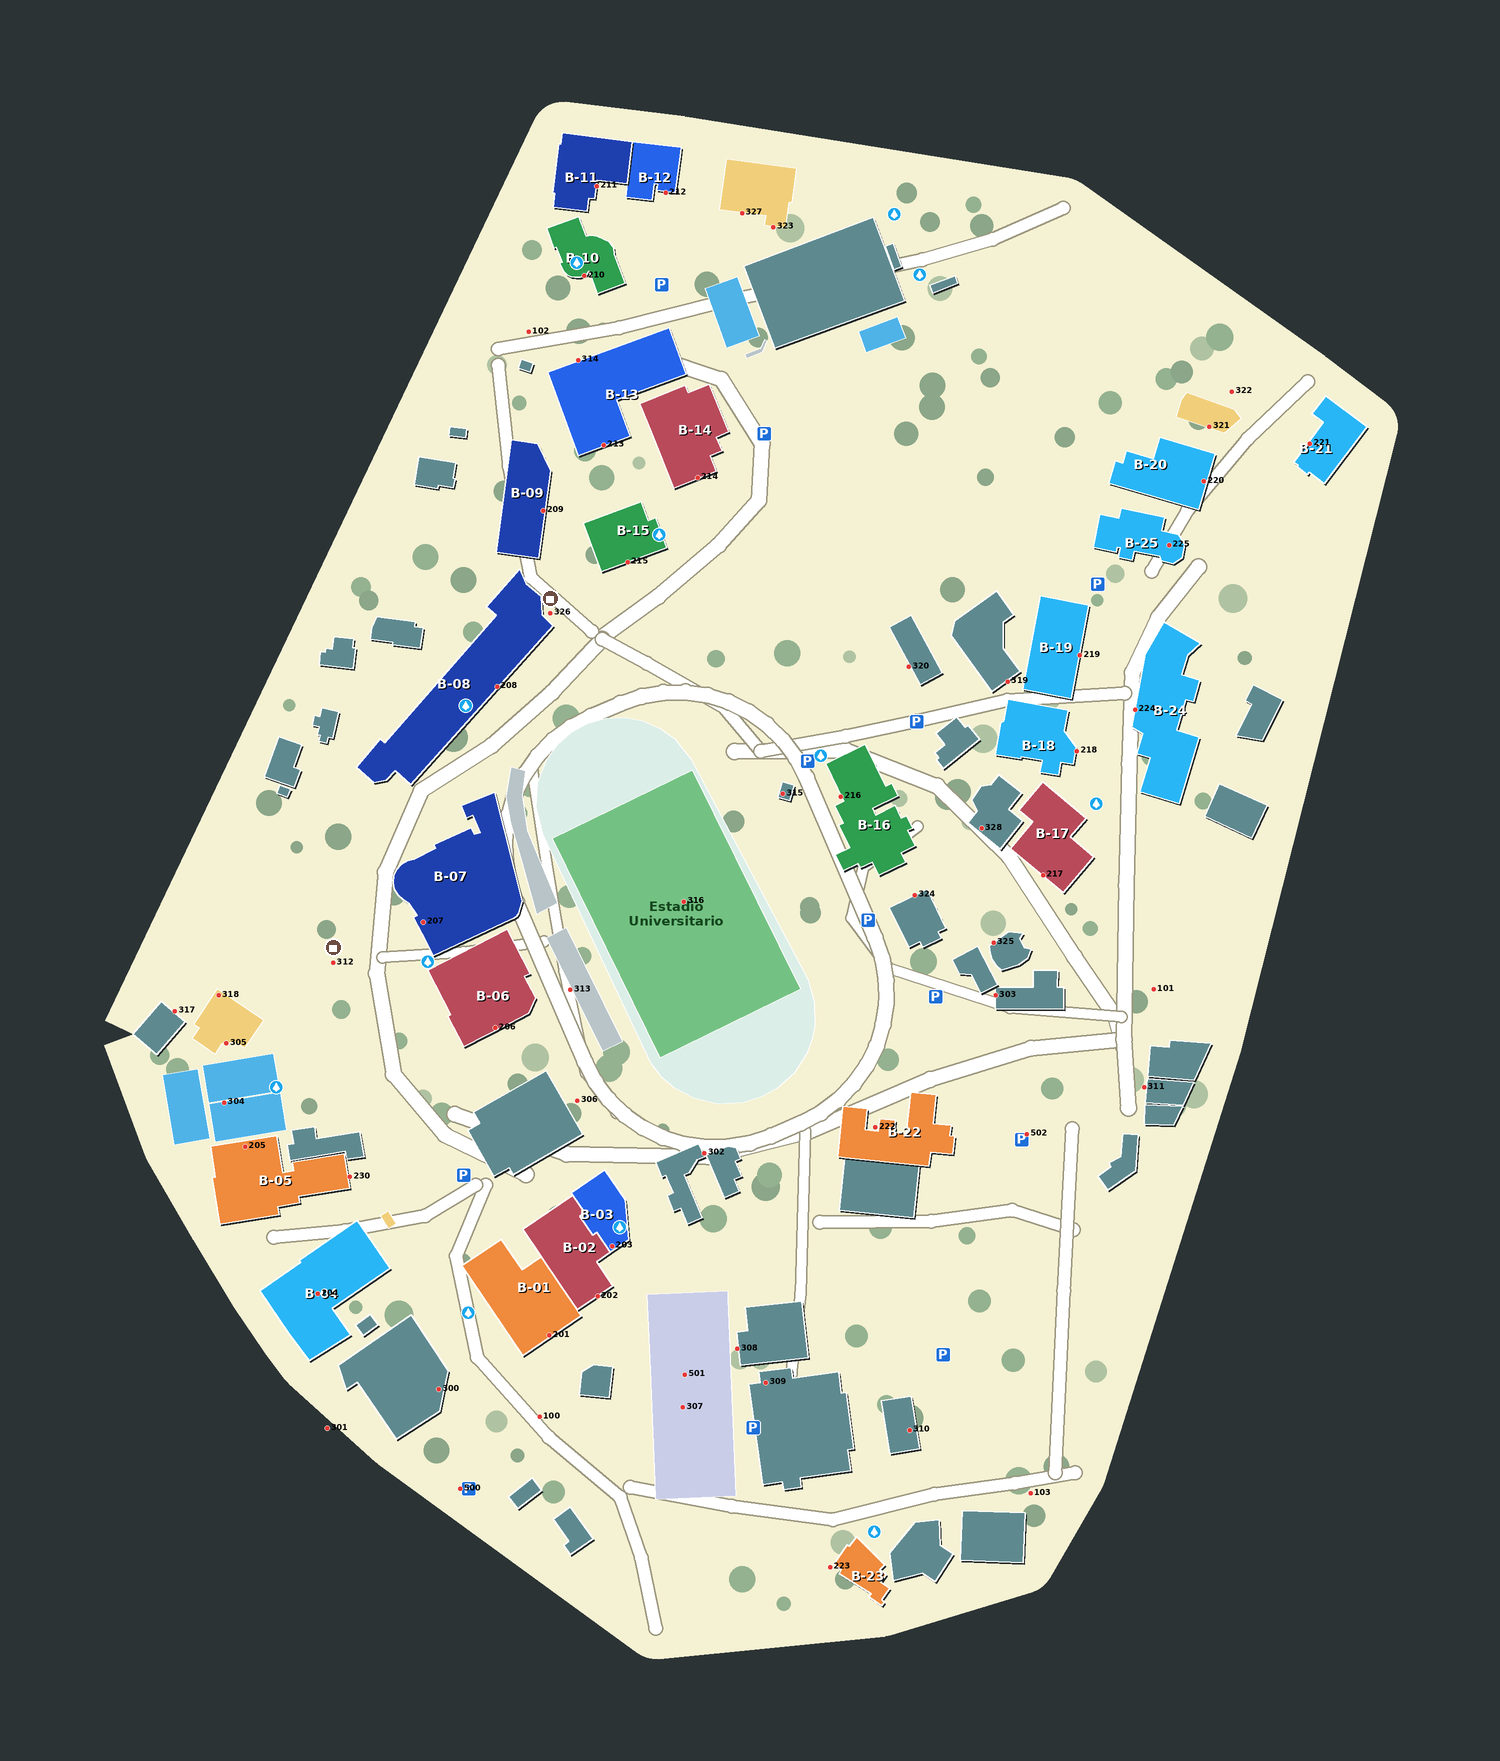
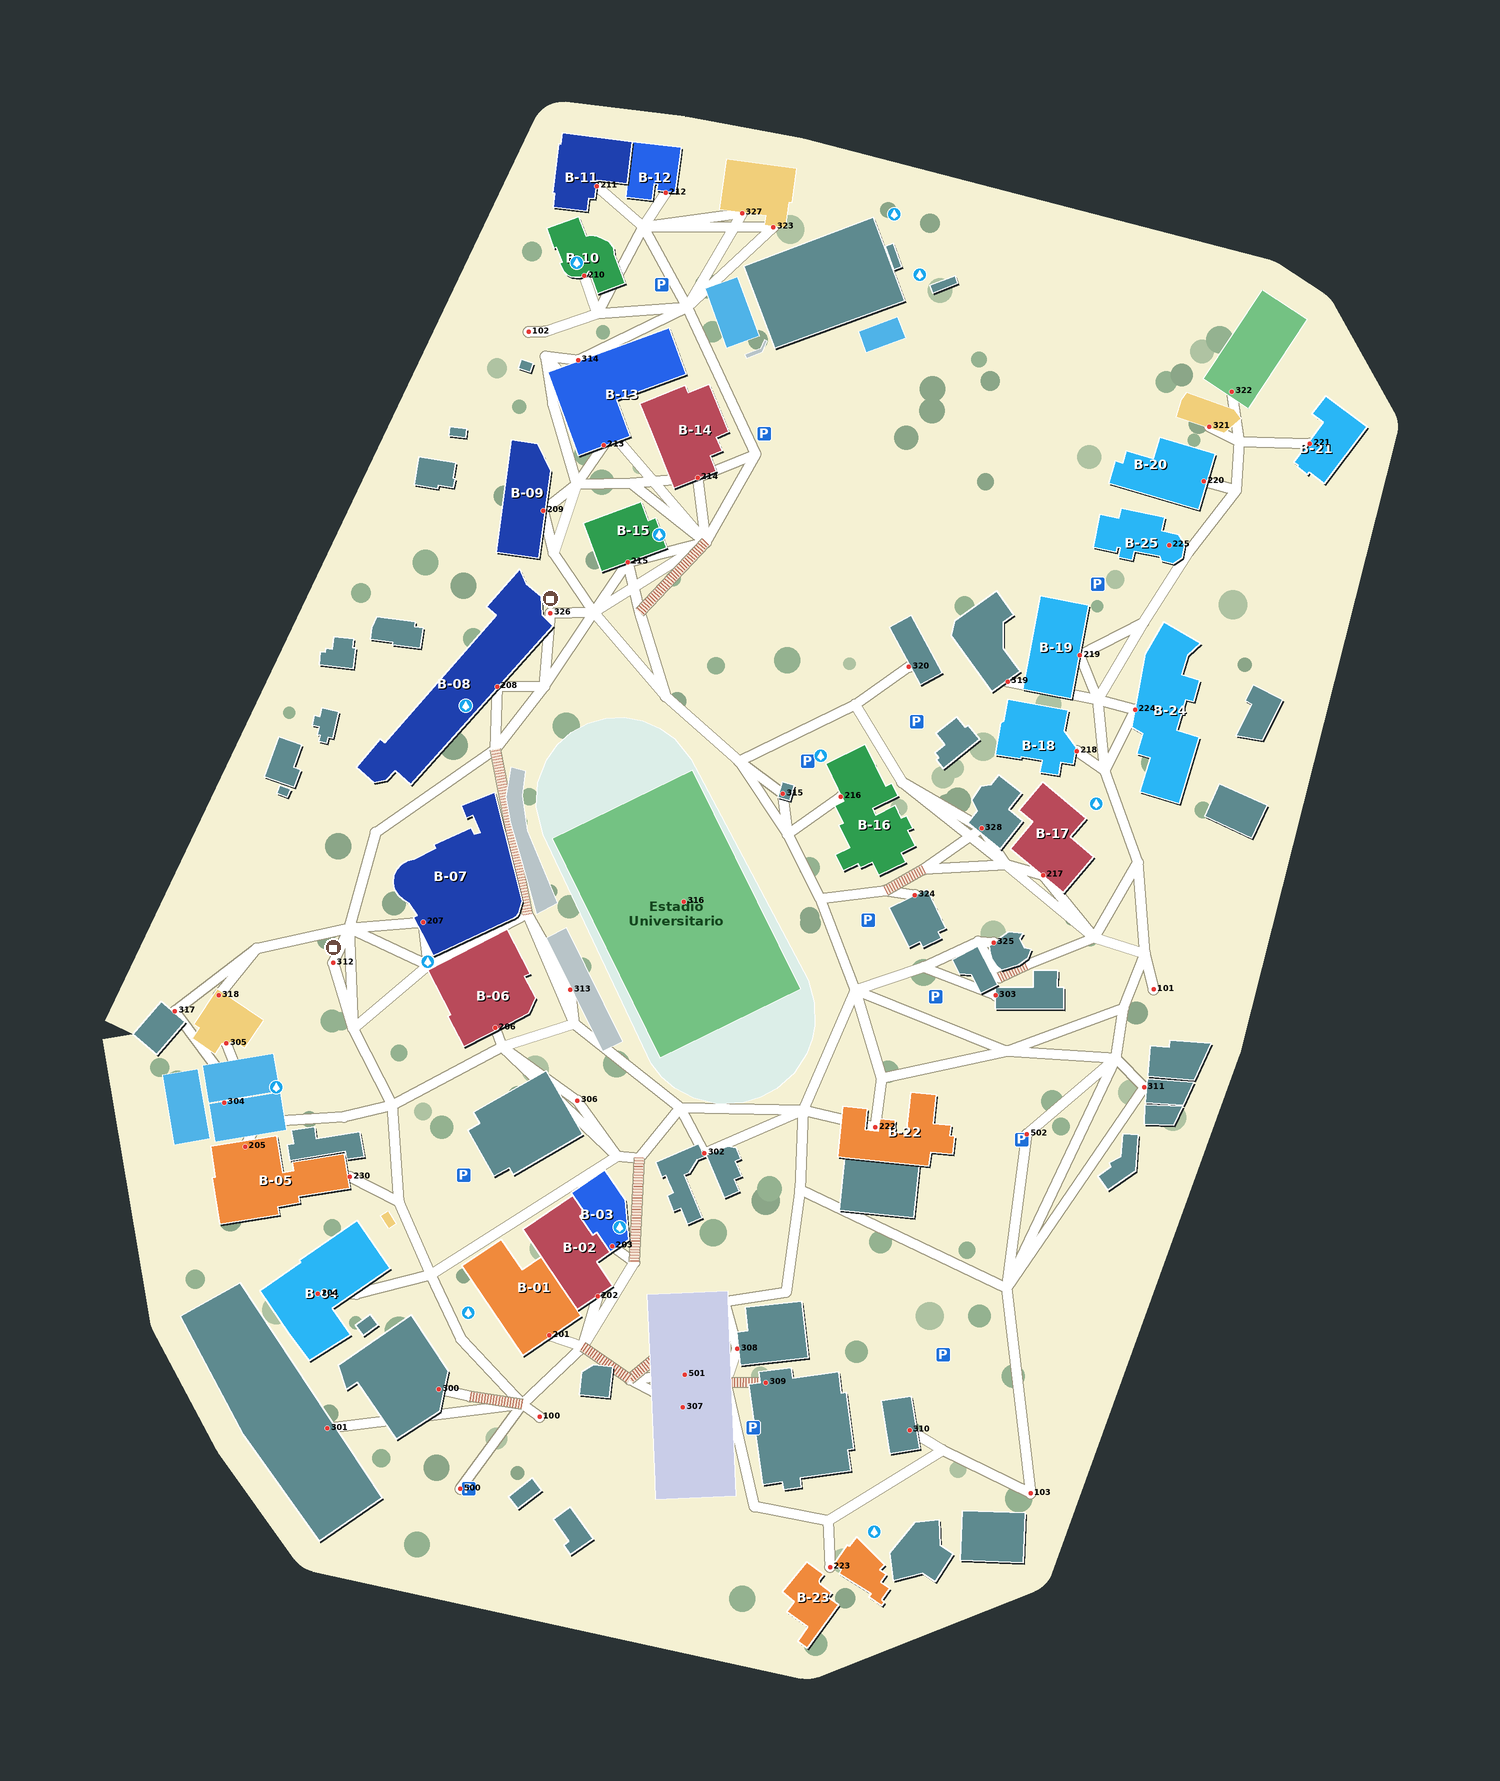
feat(mapa): caminos dibujados sobre las aristas (trazadas en OSM) con estilo de vereda y escaleras con peldaños

diff --git a/app/src/main/java/ec/edu/uleam/navigator/ui/map/CampusMap.kt b/app/src/main/java/ec/edu/uleam/navigator/ui/map/CampusMap.kt
@@ -320,8 +320,27 @@ fun CampusMap(
             // 0. TERRENO Y VEGETACIÓN DEL CAMPUS (diseño del mapa físico)
             drawCampusGround(p, ground, zoom)
 
-            // 1. DIBUJAR RED PEATONAL Y ARISTAS (con el diseño del mapa, las vías van en la capa de figuras
-            //    y las aristas del grafo no se pintan: solo se ve la ruta activa)
+            // 1. RED PEATONAL. Con el diseño del mapa, los caminos se dibujan siguiendo las aristas (trazadas sobre
+            //    OpenStreetMap) con estilo de vereda, y las escaleras con peldaños; sin diseño, líneas simples.
+            if (hasShapes && shapes.none { it.tipo == "VIA" }) {
+                val w = (4f * p.base * zoom / 111_320f).coerceIn(5f, 46f)
+                val segs = aristas.mapNotNull { e ->
+                    val u = nodoById[e.idOrigen] ?: return@mapNotNull null
+                    val v = nodoById[e.idDestino] ?: return@mapNotNull null
+                    Triple(p.toScreen(u.latitud, u.longitud), p.toScreen(v.latitud, v.longitud), e.tieneEscaleras == 1)
+                }
+                // bordes de todos los caminos primero y rellenos después: los cruces quedan limpios
+                for ((a, b, esc) in segs) if (!esc) drawLine(MapTheme.ROAD_CASING, a, b, strokeWidth = w + 4f, cap = StrokeCap.Round)
+                for ((a, b, esc) in segs) if (!esc) drawLine(MapTheme.ROAD, a, b, strokeWidth = w, cap = StrokeCap.Round)
+                // escaleras: base clara + peldaños (trazo grueso discontinuo = barras perpendiculares)
+                val step = (1.2f * p.base * zoom / 111_320f).coerceIn(2.5f, 10f)
+                for ((a, b, esc) in segs) if (esc) {
+                    drawLine(MapTheme.ROAD_CASING, a, b, strokeWidth = w + 4f, cap = StrokeCap.Butt)
+                    drawLine(MapTheme.STAIRS_BASE, a, b, strokeWidth = w, cap = StrokeCap.Butt)
+                    drawLine(MapTheme.STAIRS, a, b, strokeWidth = w * 0.9f, cap = StrokeCap.Butt,
+                        pathEffect = PathEffect.dashPathEffect(floatArrayOf(step * 0.45f, step * 0.55f)))
+                }
+            }
             if (!hasShapes) aristas.forEach { edge ->
                 val u = nodoById[edge.idOrigen] ?: return@forEach
                 val v = nodoById[edge.idDestino] ?: return@forEach

diff --git a/app/src/test/java/ec/edu/uleam/navigator/ui/map/CampusShapesTest.kt b/app/src/test/java/ec/edu/uleam/navigator/ui/map/CampusShapesTest.kt
@@ -86,9 +86,8 @@ class CampusShapesTest {
     }
 
     @Test
-    fun hayViasDecorativasYSoloSeRotulanLosBloquesDelCatalogo() {
+    fun viasConAnchoValidoYSoloSeRotulanLosBloquesDelCatalogo() {
         val shapes = realShapes()
-        assertTrue(shapes.count { it.tipo == "VIA" } >= 5)
         assertTrue(shapes.filter { it.tipo == "VIA" }.all { (it.codigo.toFloatOrNull() ?: 0f) in 2f..20f })
         val etiquetas = CampusShapesGeometry.labels(shapes).filter { it.tipo == "EDIFICIO" }.map { it.texto }
         assertTrue(etiquetas.all { Regex("B-\\d{2}").matches(it) }, "etiquetas fuera del catálogo: $etiquetas")

diff --git a/app/src/main/java/ec/edu/uleam/navigator/ui/map/CampusShapes.kt b/app/src/main/java/ec/edu/uleam/navigator/ui/map/CampusShapes.kt
@@ -51,6 +51,8 @@ object MapTheme {
     val ROAD = Color(0xFFFFFFFF)
     val ROAD_CASING = Color(0xFF9C977F)
     val SIDEWALK = Color(0xFFE0796B)
+    val STAIRS_BASE = Color(0xFFF3E3D3)
+    val STAIRS = Color(0xFFB5654F)
     val PLAZA = Color(0xFFC9CDE8)
     val ARROW_YELLOW = Color(0xFFFFD21F)
 }

diff --git a/build_shapes_osm.py b/build_shapes_osm.py
@@ -162,7 +162,7 @@ def main():
                 if hwy in VEREDA: vias.append(["VEREDA", "2.0", "OTRO", line])
                 elif hwy in ANCHO_VIA: vias.append(["VIA", "%.1f" % ANCHO_VIA[hwy], "OTRO", line])
     else:
-        vias = [[r[0], r[1], r[2], None, r[3]] for r in viejo if r[0] in ("VIA", "VEREDA")]
+        vias = []   # sin líneas OSM la app dibuja los caminos a partir de las aristas del grafo
     puntos = [r for r in viejo if r[0] in ("PARQUEO", "AGUA", "CAFE")]
     for nombre, g in sin_huella:
         if not any(r[0] == "CAFE" and r[1] == nombre for r in puntos):
